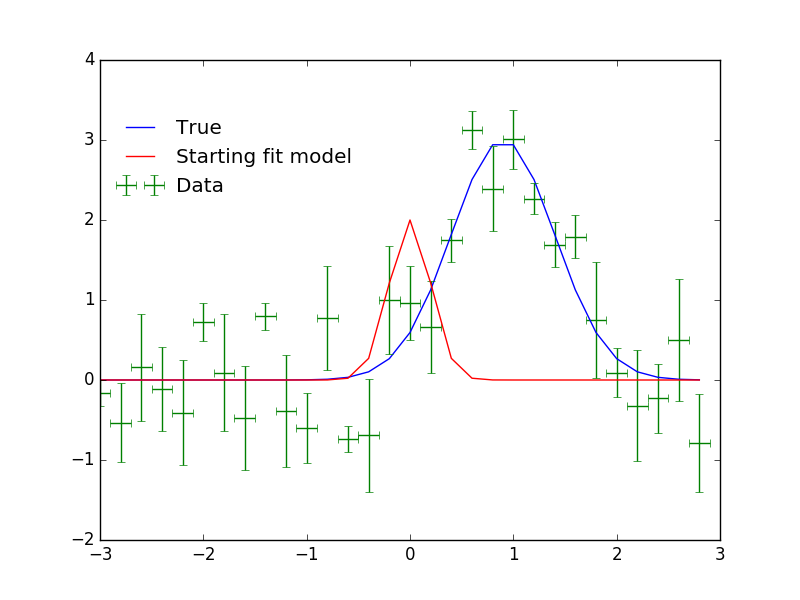
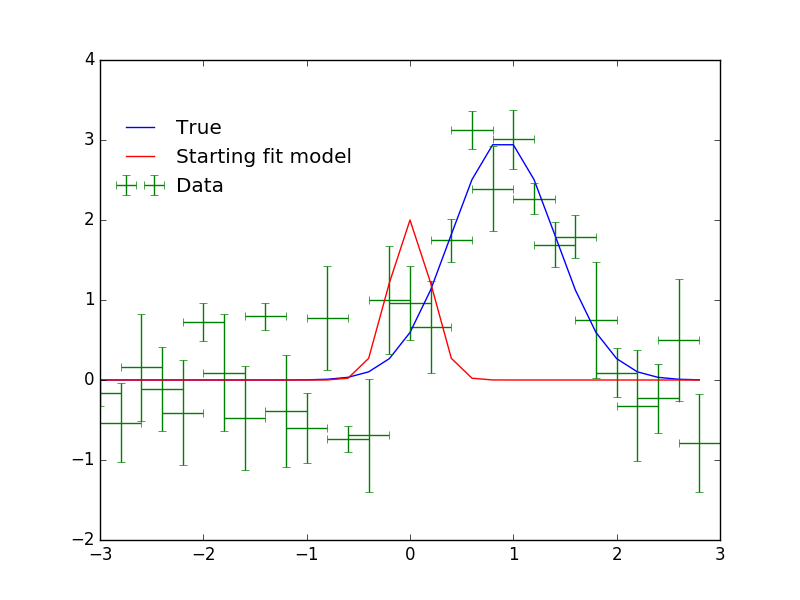
added pages

diff --git a/docs/gen_plots.py b/docs/gen_plots.py
@@ -1,9 +1,5 @@
 from astropy.modeling.fitting import SherpaFitter
-<<<<<<< HEAD
 sfitter = SherpaFitter(statistic='chi2', optimizer='levmar', estmethod='covariance')
-=======
-sfitter = SherpaFitter(statistic='chi2', optimizer='levmar', estmethod='convariance')
->>>>>>> b70820ceda946bb9d61bda09ee745308050a94ba
 
 
 from astropy.modeling.models import Gaussian1D
@@ -19,12 +15,8 @@ x = np.arange(-3, 3, step)
 y = true(x) + err * np.random.uniform(-1, 1, size=len(x))
 
 yerrs=err * np.random.uniform(0.2, 1, size=len(x))
-<<<<<<< HEAD
 #binsize=step * np.ones(x.shape)  # please note these are binsize/2 not true errors! 
-binsize=(step/2) * np.ones(x.shape)  # please note these are binsize/2 not true errors! 
-=======
 binsize=step * np.ones(x.shape)  # please note these are binsize/2 not true errors! 
->>>>>>> b70820ceda946bb9d61bda09ee745308050a94ba
 
 fit_model = true.copy() # ofset fit model from true 
 fit_model.amplitude = 2
@@ -32,17 +24,12 @@ fit_model.mean = 0
 fit_model.stddev = 0.2
 
 plt.plot(x,true(x), label="True")
-<<<<<<< HEAD
 plt.errorbar(x, y, xerr=binsize, yerr=yerrs, ls="", label="Data")
-=======
-plt.errorbar(x, y, binsize=binsize, yerr=yerrs, ls="", label="Data")
->>>>>>> b70820ceda946bb9d61bda09ee745308050a94ba
 plt.plot(x,fit_model(x), label="Starting fit model")
 plt.legend(loc=(0.02,0.7), frameon=False)
 plt.xlim((-3,3))
 plt.savefig("_generated/example_plot_data.png")
 plt.close('all')
-<<<<<<< HEAD
 
 
 fitted_model = sfitter(fit_model,x, y, xbinsize=binsize, err=yerrs)
@@ -226,5 +213,3 @@ plt.close("all")
 
 
 print("Done")
-=======
->>>>>>> b70820ceda946bb9d61bda09ee745308050a94ba

diff --git a/docs/conf.py b/docs/conf.py
@@ -190,20 +190,10 @@ todo_include_todos = False
 # Define standard header/footers.
 
 rst_prolog = ""
-<<<<<<< HEAD
 rst_epilog = ""
 renamed_rst_epilog = """
 .. _AstroPy: http://www.astropy.org/
 .. _IPython: http://ipython.org/
-=======
-
-rst_epilog = ""
-
-renamed_rst_epilog = """
-
-.. _AstroPy: http://www.astropy.org/
-... _IPython: http://ipython.org/
->>>>>>> b70820ceda946bb9d61bda09ee745308050a94ba
 .. _matplotlib: http://matplotlib.org/
 .. _Sphinx: http://sphinx.pocoo.org/
 
@@ -403,8 +393,4 @@ texinfo_documents = [
 intersphinx_mapping = {
     'astropy': ('http://docs.astropy.org/en/stable/', None),
     'sherpa': ('http://hea-www.harvard.edu/~dburke/playground/sherpa/', None)
-<<<<<<< HEAD
     }
-=======
-    }
->>>>>>> b70820ceda946bb9d61bda09ee745308050a94ba

diff --git a/docs/index.rst b/docs/index.rst
@@ -1,4 +1,4 @@
-<<<<<<< HEAD
+
 .. toctree::
    :caption: Classes
    :name: Sclass
@@ -12,27 +12,15 @@
    
    examples_basic
    examples_complex
+   examples_2d
+   examples_mcmc
 
 
-=======
-.. AstroSherpaBridge documentation master file, created by
-.. toctree::
-   :caption: Table of Contents
-   :name: mastertoc
-
-   sherpafitter
-   sherpafitter_examples
-   ...
->>>>>>> b70820ceda946bb9d61bda09ee745308050a94ba
 
 Welcome to AstroSherpaBridge's documentation!
 =============================================
 
 I would like to introduce you to the Google Summer of Code project, a brigde between sherpa and astropy::astropy.modelling this project is to allow astropy users to take advantage of the sherpa package, giving them acess to the fitting routines and uncertainties estimation.
 
-<<<<<<< HEAD
-=======
-last run on commit sb-nb2
->>>>>>> b70820ceda946bb9d61bda09ee745308050a94ba
 
 

diff --git a/docs/sherpafitter.rst b/docs/sherpafitter.rst
@@ -1,7 +1,3 @@
-<<<<<<< HEAD
-=======
-
->>>>>>> b70820ceda946bb9d61bda09ee745308050a94ba
 SherpaFitter
 =============
 

diff --git a/docs/examples_mcmc.rst b/docs/examples_mcmc.rst
@@ -1,0 +1,6 @@
+
+Using sherpa's MCMC sampler
+===========================
+
+
+Here's how we use the mcmc object!

diff --git a/docs/examples_2d.rst b/docs/examples_2d.rst
@@ -1,0 +1,5 @@
+
+Fitting 2D data
+===============
+
+Heres how you fit 2d data!
